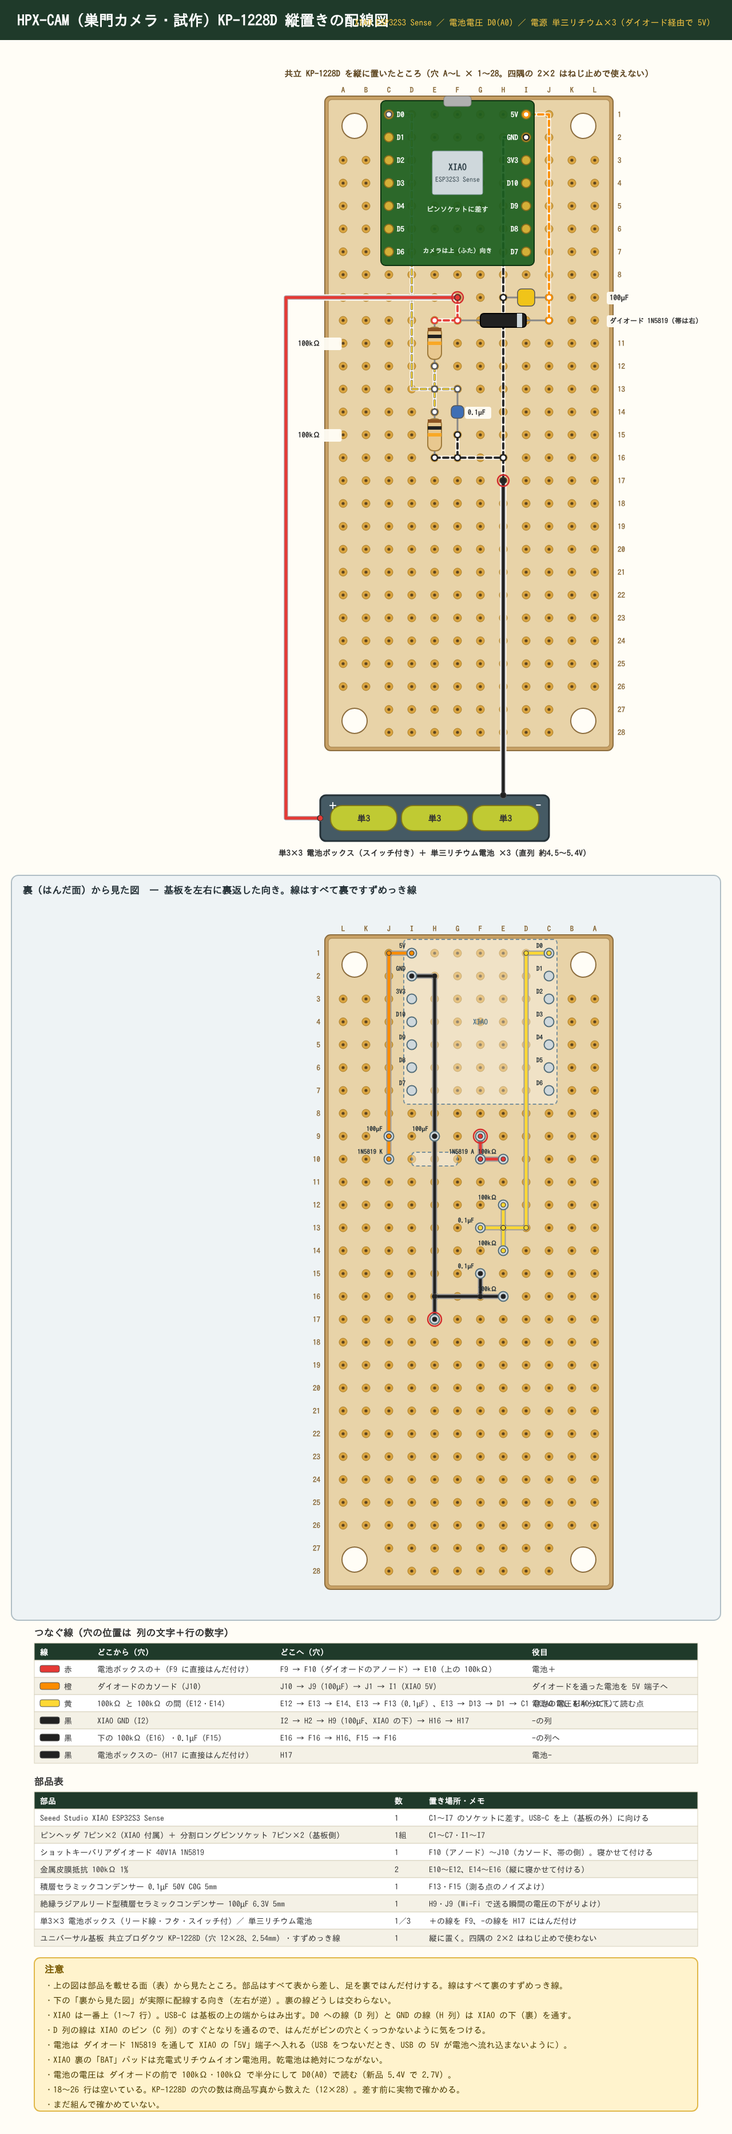
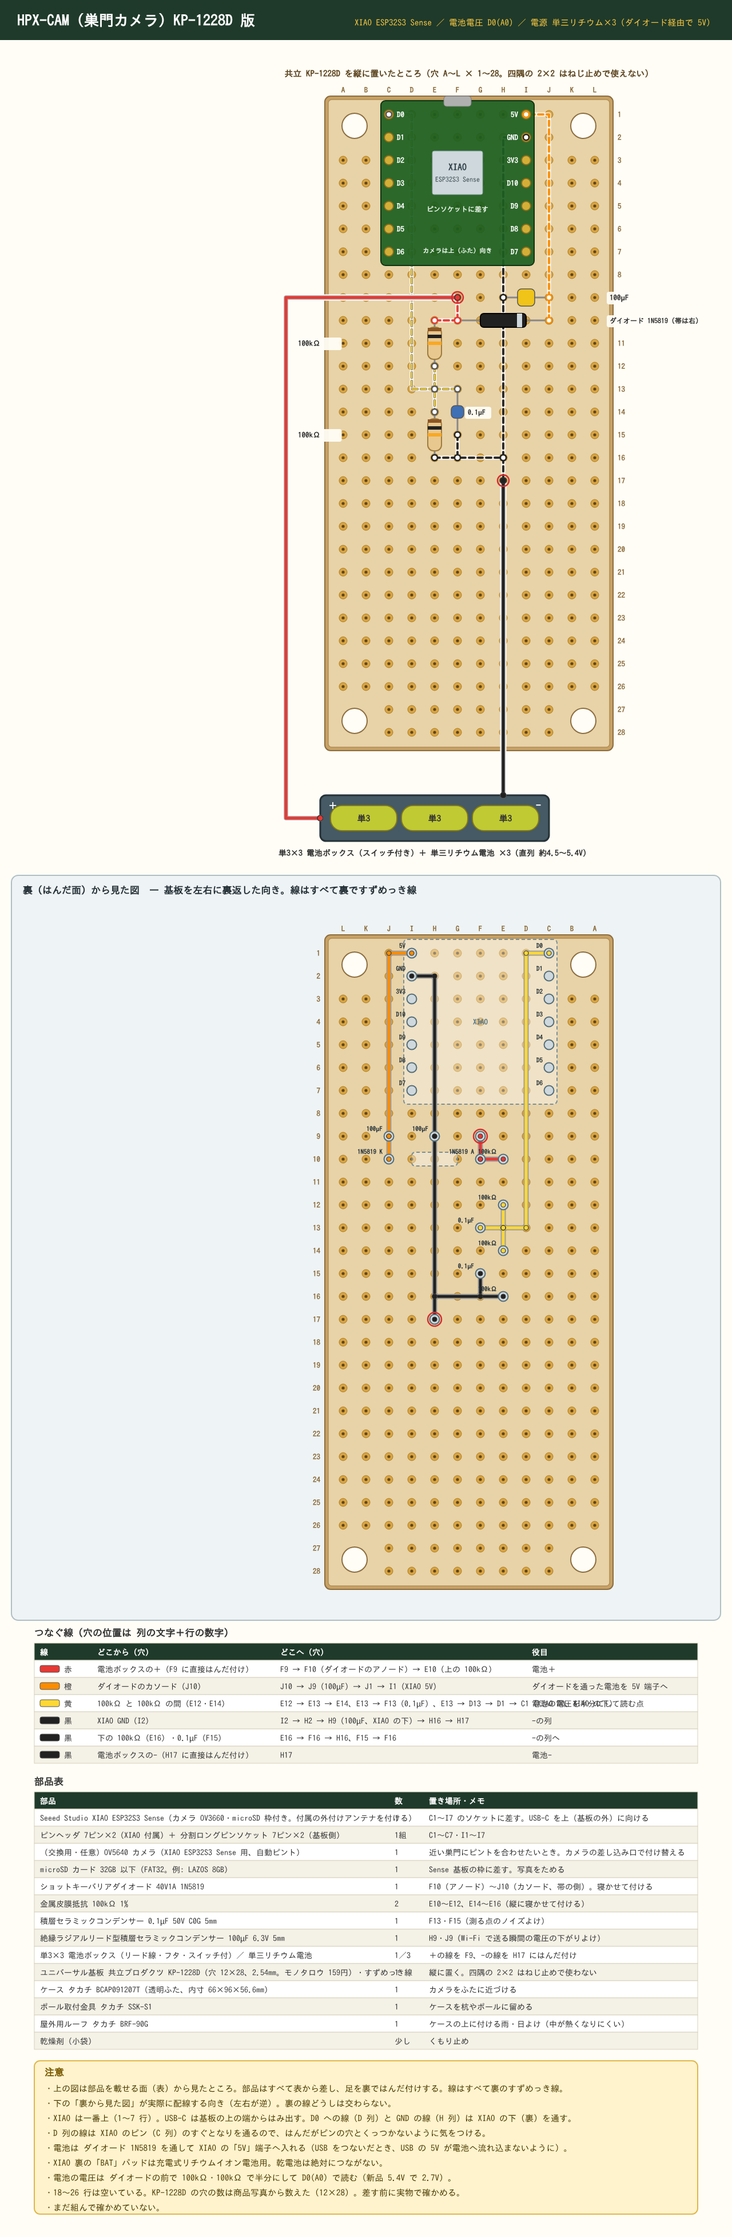
HPX-CAM: 基板を共立 KP-1228D (159円) にし、サイトの配線図を KP-1228D 縦置き版に差し替え (TARO 指定)
Claude-Session: https://claude.ai/code/session_01LCC9B3VoVWL7WDxMCJTnsZ

diff --git a/site/device-cam.html b/site/device-cam.html
@@ -222,7 +222,7 @@
         <tr><td class="part"><b><a href="https://www.monotaro.com/p/8822/1795/" target="_blank" rel="noopener">屋外用ルーフ BRFシリーズ</a></b><span>タカチ　BRF-90G</span><span class="price">539円</span></td><td class="shop">モノタロウ</td><td class="n" data-v="数">1</td></tr>
         <tr><td class="part"><b><a href="https://www.monotaro.com/p/8835/9293/" target="_blank" rel="noopener">ポール取付金具 SSKシリーズ</a></b><span>タカチ　SSK-S1</span><span class="price">558円</span></td><td class="shop">モノタロウ</td><td class="n" data-v="数">1</td></tr>
         <tr class="cat"><th colspan="3">電子部品</th></tr>
-        <tr><td class="part"><b><a href="https://akizukidenshi.com/catalog/g/g112977/" target="_blank" rel="noopener">ユニバーサル基板 5×7</a></b><span>両面スルーホールユニバーサル基板 5*7</span><span class="price">60円</span></td><td class="shop">秋月電子通商</td><td class="n" data-v="数">1</td></tr>
+        <tr><td class="part"><b><a href="https://www.monotaro.com/p/6298/8268/" target="_blank" rel="noopener">ユニバーサル基板 KP-1228D</a></b><span>共立プロダクツ ユニバーサル基板 ピッチ2.54mm KP-1228D (穴 12×28)</span><span class="price">159円</span></td><td class="shop">モノタロウ</td><td class="n" data-v="数">1</td></tr>
         <tr><td class="part"><b><a href="https://akizukidenshi.com/catalog/g/g117244/" target="_blank" rel="noopener">ショットキーバリアダイオード</a></b><span>ショットキーバリアダイオード 40V1A 1N5819</span><span class="price">100円 / 10本入り</span></td><td class="shop">秋月電子通商</td><td class="n" data-v="数">1</td></tr>
         <tr><td class="part"><b><a href="https://akizukidenshi.com/catalog/g/g108563/" target="_blank" rel="noopener">抵抗 100kΩ</a></b><span>小型 金属皮膜抵抗 1/4W100kΩ</span><span class="price">300円 / 100本入り</span></td><td class="shop">秋月電子通商</td><td class="n" data-v="数">2</td></tr>
         <tr><td class="part"><b><a href="https://akizukidenshi.com/catalog/g/g117059/" target="_blank" rel="noopener">コンデンサー0.1μF</a></b><span>積層セラミックコンデンサー 0.1μF50V C0G 5mm</span><span class="price">250円 / 10個入り</span></td><td class="shop">秋月電子通商</td><td class="n" data-v="数">1</td></tr>
@@ -236,7 +236,7 @@
         <tr><td class="part"><b><a href="https://www.amazon.co.jp/dp/B0FKQBGM4X" target="_blank" rel="noopener">microSDカード</a></b><span>LAZOS microSD メモリーカード 8GB</span><span class="price">780円</span></td><td class="shop">amazon</td><td class="n" data-v="数">1</td></tr>
         <tr><td class="part"><b>乾燥剤</b><span>乾燥剤 (小袋、くもり止め)</span></td><td class="shop">—</td><td class="n" data-v="数">適宜</td></tr>
         </tbody>
-        <tfoot><tr><td class="part">部品代の目安 (1台分)</td><td class="shop"></td><td class="n" data-v="数">約 7,213円</td></tr></tfoot>
+        <tfoot><tr><td class="part">部品代の目安 (1台分)</td><td class="shop"></td><td class="n" data-v="数">約 7,312円</td></tr></tfoot>
       </table>
       <div class="extra"><h3>その他</h3><p>※試作中です。ファームウェアは準備中です。写真を送るには、蜂場に Wi-Fi の親機 (ルーターやアクセスポイント) が必要です。近い巣門にピントを合わせたいときは、別売の OV5640 カメラ (自動ピント) に付け替えられます。</p></div>
     </div>
@@ -247,18 +247,18 @@
       <h2>作り方</h2>
       <p class="note">図を押すと、大きな画像が開きます。どの図もまだ実物で組んで確かめていません。取付穴の位置は目安なので、部品と基板の実物で確かめてから組み立ててください。</p>
       <figure class="wiring">
-        <figcaption><b>配線図</b>ユニバーサル基板 (穴 12×18) に XIAO ESP32S3 Sense・ダイオード・抵抗・コンデンサーを載せる図です (抵抗 2本と 0.1µF はチップの下) (表と裏、線はすべて裏)。単三リチウム3本の電気をダイオードを通して XIAO の 5V 端子へ入れ、電池の電圧を D0 で読みます。ケースは透明ふたの BCAP091207T で、カメラをふたのすぐ下に置きます。</figcaption>
-        <a href="img/wiring/HPX-CAM_pcb.png" target="_blank" rel="noopener"><img src="img/wiring/HPX-CAM_pcb.png" alt="HPX-CAM 配線図" loading="lazy"></a>
+        <figcaption><b>配線図</b>共立プロダクツのユニバーサル基板 KP-1228D (穴 12×28) を縦に置き、一番上に XIAO ESP32S3 Sense を差して、その下にダイオード・抵抗・コンデンサーを並べる図です (表と裏、線はすべて裏。四隅の 2×2 はねじ止めに使うので穴を使いません)。単三リチウム3本の電気をダイオードを通して XIAO の 5V 端子へ入れ、電池の電圧を D0 で読みます。ケースは透明ふたの BCAP091207T で、カメラをふたのすぐ下に置きます。</figcaption>
+        <a href="img/wiring/HPX-CAM_KP1228D_pcb.png" target="_blank" rel="noopener"><img src="img/wiring/HPX-CAM_KP1228D_pcb.png" alt="HPX-CAM 配線図" loading="lazy"></a>
       </figure>
       <div class="wtab"><h3>つなぐ線（穴の位置は 列の文字＋行の数字）</h3><div class="scroll"><table>
         <thead><tr><th>線</th><th>どこから（穴）</th><th>どこへ（穴）</th><th>役目</th></tr></thead>
-        <tbody><tr><td class="wc"><span class="sw" style="background:#e53935"></span>赤</td><td>電池ボックスの＋（B11 に直接はんだ付け）</td><td>B11 → B2 → D2（ダイオードのアノード）→ E2 → E3（上の 100kΩ）</td><td>電池＋</td></tr><tr><td class="wc"><span class="sw" style="background:#fb8c00"></span>橙</td><td>ダイオードのカソード（H2）</td><td>H2 → I2（100µF）→ I3（XIAO 5V）</td><td>ダイオードを通った電池を 5V 端子へ</td></tr><tr><td class="wc"><span class="sw" style="background:#fdd835"></span>黄</td><td>100kΩ と 100kΩ の間（E5・E7、チップの下）</td><td>E5 → E6 → E7 → F7（0.1µF）、E6 → D6 → D3 → C3（XIAO D0）</td><td>電池の電圧を半分にして読む点</td></tr><tr><td class="wc"><span class="sw" style="background:#212121"></span>黒</td><td>下の 100kΩ（E9、チップの下）</td><td>E9 → F9（0.1µF）、E9 → E10 → K10</td><td>−の列へ</td></tr><tr><td class="wc"><span class="sw" style="background:#212121"></span>黒</td><td>電池ボックスの−（K11 に直接はんだ付け）</td><td>K11 → K10 → K4 → K2（100µF）、I4（XIAO GND）→ K4</td><td>−の列</td></tr></tbody>
+        <tbody><tr><td class="wc"><span class="sw" style="background:#e53935"></span>赤</td><td>電池ボックスの＋（F9 に直接はんだ付け）</td><td>F9 → F10（ダイオードのアノード）→ E10（上の 100kΩ）</td><td>電池＋</td></tr><tr><td class="wc"><span class="sw" style="background:#fb8c00"></span>橙</td><td>ダイオードのカソード（J10）</td><td>J10 → J9（100µF）→ J1 → I1（XIAO 5V）</td><td>ダイオードを通った電池を 5V 端子へ</td></tr><tr><td class="wc"><span class="sw" style="background:#fdd835"></span>黄</td><td>100kΩ と 100kΩ の間（E12・E14）</td><td>E12 → E13 → E14、E13 → F13（0.1µF）、E13 → D13 → D1 → C1（XIAO D0、XIAO の下）</td><td>電池の電圧を半分にして読む点</td></tr><tr><td class="wc"><span class="sw" style="background:#212121"></span>黒</td><td>XIAO GND（I2）</td><td>I2 → H2 → H9（100µF、XIAO の下）→ H16 → H17</td><td>−の列</td></tr><tr><td class="wc"><span class="sw" style="background:#212121"></span>黒</td><td>下の 100kΩ（E16）・0.1µF（F15）</td><td>E16 → F16 → H16、F15 → F16</td><td>−の列へ</td></tr><tr><td class="wc"><span class="sw" style="background:#212121"></span>黒</td><td>電池ボックスの−（H17 に直接はんだ付け）</td><td>H17</td><td>電池−</td></tr></tbody>
       </table></div></div>
       <div class="wtab"><h3>部品の置き場所</h3><div class="scroll"><table>
         <thead><tr><th>部品</th><th>数</th><th>置き場所・メモ</th></tr></thead>
-        <tbody><tr><td>Seeed Studio XIAO ESP32S3 Sense（カメラ OV3660・microSD 枠付き。付属の外付けアンテナを付ける。秋月電子 2,660円）</td><td>1</td><td>C3〜I9 のソケットに差す。USB-C を上に向ける</td></tr><tr><td>ピンヘッダ 7ピン×2（XIAO 付属）＋ 分割ロングピンソケット 7ピン×2（基板側）</td><td>1組</td><td>C3〜C9・I3〜I9</td></tr><tr><td>（交換用・任意）OV5640 カメラ（XIAO ESP32S3 Sense 用、自動ピント）</td><td>1</td><td>近い巣門にピントを合わせたいとき。カメラの差し込み口で付け替える</td></tr><tr><td>microSD カード 32GB 以下（FAT32。例: LAZOS 8GB）</td><td>1</td><td>Sense 基板の枠に差す。写真をためる</td></tr><tr><td>ショットキーバリアダイオード 40V1A 1N5819（秋月電子 100円/10本）</td><td>1</td><td>D2（アノード）〜H2（カソード、帯の側）。寝かせて付ける</td></tr><tr><td>金属皮膜抵抗 100kΩ 1%</td><td>2</td><td>E3〜E5、E7〜E9（チップの下。縦に寝かせて付ける）</td></tr><tr><td>積層セラミックコンデンサー 0.1µF 50V C0G 5mm</td><td>1</td><td>F7・F9（チップの下。測る点のノイズよけ）</td></tr><tr><td>絶縁ラジアルリード型積層セラミックコンデンサー 100µF 6.3V 5mm</td><td>1</td><td>I2・K2（Wi-Fi で送る瞬間の電圧の下がりよけ）</td></tr><tr><td>単3×3 電池ボックス（リード線・フタ・スイッチ付、秋月電子 160円）／ 単三リチウム電池</td><td>1／3</td><td>＋の線を B11、−の線を K11 にはんだ付け</td></tr><tr><td>ユニバーサル基板（穴 12×18 以上）・すずめっき線</td><td>1</td><td>大きい基板を切って使ってもよい</td></tr><tr><td>ケース タカチ BCAP091207T（透明ふた、内寸 66×96×56.6mm。モノタロウ 1,398円）</td><td>1</td><td>カメラをふたに近づける</td></tr><tr><td>ポール取付金具 タカチ SSK-S1（モノタロウ 558円）</td><td>1</td><td>ケースを杭やポールに留める</td></tr><tr><td>屋外用ルーフ タカチ BRF-90G（モノタロウ 539円）</td><td>1</td><td>ケースの上に付ける雨・日よけ（中が熱くなりにくい）</td></tr><tr><td>乾燥剤（小袋）</td><td>少し</td><td>くもり止め</td></tr></tbody>
+        <tbody><tr><td>Seeed Studio XIAO ESP32S3 Sense（カメラ OV3660・microSD 枠付き。付属の外付けアンテナを付ける）</td><td>1</td><td>C1〜I7 のソケットに差す。USB-C を上（基板の外）に向ける</td></tr><tr><td>ピンヘッダ 7ピン×2（XIAO 付属）＋ 分割ロングピンソケット 7ピン×2（基板側）</td><td>1組</td><td>C1〜C7・I1〜I7</td></tr><tr><td>（交換用・任意）OV5640 カメラ（XIAO ESP32S3 Sense 用、自動ピント）</td><td>1</td><td>近い巣門にピントを合わせたいとき。カメラの差し込み口で付け替える</td></tr><tr><td>microSD カード 32GB 以下（FAT32。例: LAZOS 8GB）</td><td>1</td><td>Sense 基板の枠に差す。写真をためる</td></tr><tr><td>ショットキーバリアダイオード 40V1A 1N5819</td><td>1</td><td>F10（アノード）〜J10（カソード、帯の側）。寝かせて付ける</td></tr><tr><td>金属皮膜抵抗 100kΩ 1%</td><td>2</td><td>E10〜E12、E14〜E16（縦に寝かせて付ける）</td></tr><tr><td>積層セラミックコンデンサー 0.1µF 50V C0G 5mm</td><td>1</td><td>F13・F15（測る点のノイズよけ）</td></tr><tr><td>絶縁ラジアルリード型積層セラミックコンデンサー 100µF 6.3V 5mm</td><td>1</td><td>H9・J9（Wi-Fi で送る瞬間の電圧の下がりよけ）</td></tr><tr><td>単3×3 電池ボックス（リード線・フタ・スイッチ付）／ 単三リチウム電池</td><td>1／3</td><td>＋の線を F9、−の線を H17 にはんだ付け</td></tr><tr><td>ユニバーサル基板 共立プロダクツ KP-1228D（穴 12×28、2.54mm。モノタロウ 159円）・すずめっき線</td><td>1</td><td>縦に置く。四隅の 2×2 はねじ止めで使わない</td></tr><tr><td>ケース タカチ BCAP091207T（透明ふた、内寸 66×96×56.6mm）</td><td>1</td><td>カメラをふたに近づける</td></tr><tr><td>ポール取付金具 タカチ SSK-S1</td><td>1</td><td>ケースを杭やポールに留める</td></tr><tr><td>屋外用ルーフ タカチ BRF-90G</td><td>1</td><td>ケースの上に付ける雨・日よけ（中が熱くなりにくい）</td></tr><tr><td>乾燥剤（小袋）</td><td>少し</td><td>くもり止め</td></tr></tbody>
       </table></div></div>
-      <div class="wnote"><h3>注意</h3><ul><li>上の図は部品を載せる面（表）から見たところ。部品はすべて表から差し、足を裏ではんだ付けする。線はすべて裏のすずめっき線。</li><li>下の「裏から見た図」が実際に配線する向き（左右が逆）。裏の線どうしは交わらない。</li><li>電池は ダイオード 1N5819 を通して XIAO の「5V」端子へ入れる（USB をつないだとき、USB の 5V が電池へ流れ込まないように）。</li><li>XIAO 裏の「BAT」パッドは充電式リチウムイオン電池用。乾電池は絶対につながない。</li><li>100kΩ 2本と 0.1µF はチップ（XIAO）の下に置く。基板にぴったり寝かせ、0.1µF の足は短く切る。XIAO の裏の金属（パッド）に当たらないようにする。</li><li>電池の電圧は ダイオードの前で 100kΩ・100kΩ で半分にして D0(A0) で読む（新品 5.4V で 2.7V）。この抵抗には いつも約27µA 流れる（1日 約0.65mAh）。</li><li>D8・D9・D10 は Sense 基板の microSD が使うので、ほかの部品につながない。</li><li>USB で書き込むときは、電池ボックスのスイッチを切る（ダイオードがあるので切り忘れても壊れにくいが、念のため）。</li><li>付属の Wi-Fi アンテナ（シール状）は XIAO の U.FL に差し、ケースの壁（金属のそば以外）に貼る。</li><li>ケースの中で、カメラ（Sense 基板）をふたのすぐ下に来るようにする（ふたの反射よけ）。</li><li>電池のもち（10分おきに撮影・未実測）: 24時間で 約3週間〜1か月半、昼12時間だけで 約1〜3か月。眠り中の電流しだい。</li><li>まだ組んで確かめていない。XIAO ESP32S3 Sense の眠り中の電流、1N5819 を入れたときの Wi-Fi 送信中の電圧は実物で測る。</li></ul></div>
+      <div class="wnote"><h3>注意</h3><ul><li>上の図は部品を載せる面（表）から見たところ。部品はすべて表から差し、足を裏ではんだ付けする。線はすべて裏のすずめっき線。</li><li>下の「裏から見た図」が実際に配線する向き（左右が逆）。裏の線どうしは交わらない。</li><li>XIAO は一番上（1〜7 行）。USB-C は基板の上の端からはみ出す。D0 への線（D 列）と GND の線（H 列）は XIAO の下（裏）を通す。</li><li>D 列の線は XIAO のピン（C 列）のすぐとなりを通るので、はんだがピンの穴とくっつかないように気をつける。</li><li>電池は ダイオード 1N5819 を通して XIAO の「5V」端子へ入れる（USB をつないだとき、USB の 5V が電池へ流れ込まないように）。</li><li>XIAO 裏の「BAT」パッドは充電式リチウムイオン電池用。乾電池は絶対につながない。</li><li>電池の電圧は ダイオードの前で 100kΩ・100kΩ で半分にして D0(A0) で読む（新品 5.4V で 2.7V）。</li><li>18〜26 行は空いている。KP-1228D の穴の数は商品写真から数えた（12×28）。差す前に実物で確かめる。</li><li>まだ組んで確かめていない。</li></ul></div>
       <div class="soonbox">組み立ての手順は、準備ができしだい掲載します。</div>
       <a class="back" href="devices.html">機器の一覧へ戻る</a>
     </div>

diff --git a/hardware/wiring/gen_pcb.py b/hardware/wiring/gen_pcb.py
@@ -1524,7 +1524,7 @@ def w(color, *holes):
     wireh(s, [hole(h) for h in holes], color)
 OX, OY = 600, 200
 s = S(1280, 3200)
-title(s, "HPX-CAM（巣門カメラ・試作）KP-1228D 縦置きの配線図", "XIAO ESP32S3 Sense ／ 電池電圧 D0(A0) ／ 電源 単三リチウム×3（ダイオード経由で 5V）")
+title(s, "HPX-CAM（巣門カメラ）KP-1228D 版", "XIAO ESP32S3 Sense ／ 電池電圧 D0(A0) ／ 電源 単三リチウム×3（ダイオード経由で 5V）")
 board(s, 12, 28, "共立 KP-1228D を縦に置いたところ（穴 A〜L × 1〜28。四隅の 2×2 はねじ止めで使えない）")
 _i0 = len(s.items)
 for r in (0, 1, 26, 27):
@@ -1596,14 +1596,20 @@ y = table(s, 60, yb + 40, [
 ], [100, 320, 440, 300], "つなぐ線（穴の位置は 列の文字＋行の数字）")
 y = table(s, 60, y + 50, [
     ["部品", "数", "置き場所・メモ"],
-    ["Seeed Studio XIAO ESP32S3 Sense", "1", "C1〜I7 のソケットに差す。USB-C を上（基板の外）に向ける"],
+    ["Seeed Studio XIAO ESP32S3 Sense（カメラ OV3660・microSD 枠付き。付属の外付けアンテナを付ける）", "1", "C1〜I7 のソケットに差す。USB-C を上（基板の外）に向ける"],
     ["ピンヘッダ 7ピン×2（XIAO 付属）＋ 分割ロングピンソケット 7ピン×2（基板側）", "1組", "C1〜C7・I1〜I7"],
+    ["（交換用・任意）OV5640 カメラ（XIAO ESP32S3 Sense 用、自動ピント）", "1", "近い巣門にピントを合わせたいとき。カメラの差し込み口で付け替える"],
+    ["microSD カード 32GB 以下（FAT32。例: LAZOS 8GB）", "1", "Sense 基板の枠に差す。写真をためる"],
     ["ショットキーバリアダイオード 40V1A 1N5819", "1", "F10（アノード）〜J10（カソード、帯の側）。寝かせて付ける"],
     ["金属皮膜抵抗 100kΩ 1%", "2", "E10〜E12、E14〜E16（縦に寝かせて付ける）"],
     ["積層セラミックコンデンサー 0.1µF 50V C0G 5mm", "1", "F13・F15（測る点のノイズよけ）"],
     ["絶縁ラジアルリード型積層セラミックコンデンサー 100µF 6.3V 5mm", "1", "H9・J9（Wi-Fi で送る瞬間の電圧の下がりよけ）"],
     ["単3×3 電池ボックス（リード線・フタ・スイッチ付）／ 単三リチウム電池", "1／3", "＋の線を F9、−の線を H17 にはんだ付け"],
-    ["ユニバーサル基板 共立プロダクツ KP-1228D（穴 12×28、2.54mm）・すずめっき線", "1", "縦に置く。四隅の 2×2 はねじ止めで使わない"],
+    ["ユニバーサル基板 共立プロダクツ KP-1228D（穴 12×28、2.54mm。モノタロウ 159円）・すずめっき線", "1", "縦に置く。四隅の 2×2 はねじ止めで使わない"],
+    ["ケース タカチ BCAP091207T（透明ふた、内寸 66×96×56.6mm）", "1", "カメラをふたに近づける"],
+    ["ポール取付金具 タカチ SSK-S1", "1", "ケースを杭やポールに留める"],
+    ["屋外用ルーフ タカチ BRF-90G", "1", "ケースの上に付ける雨・日よけ（中が熱くなりにくい）"],
+    ["乾燥剤（小袋）", "少し", "くもり止め"],
 ], [620, 60, 480], "部品表")
 finish(s, y, [
     "・上の図は部品を載せる面（表）から見たところ。部品はすべて表から差し、足を裏ではんだ付けする。線はすべて裏のすずめっき線。",

diff --git a/hardware/parts/gen_device_pages.py b/hardware/parts/gen_device_pages.py
@@ -122,10 +122,11 @@ DEVICES = [
          no_alts=True,
          order=['XIAO ESP32S3 Sense',
                 '防水・防塵開閉式プラボックス BCAPシリーズ', '屋外用ルーフ BRFシリーズ', 'ポール取付金具 SSKシリーズ',
-                'ユニバーサル基板 5×7', 'ショットキーバリアダイオード', '抵抗 100kΩ', 'コンデンサー0.1μF',
+                'ユニバーサル基板 KP-1228D', 'ショットキーバリアダイオード', '抵抗 100kΩ', 'コンデンサー0.1μF',
                 'コンデンサー100μF', 'ピンソケット（メス）', 'ジャンパー線',
                 '電池ボックス 単3×3本', '単三リチウム電池', 'microSDカード', '乾燥剤'],
-         wiring=[('HPX-CAM_pcb.png', '配線図', 'ユニバーサル基板 (穴 12×18) に XIAO ESP32S3 Sense・ダイオード・抵抗・コンデンサーを載せる図です (抵抗 2本と 0.1µF はチップの下) (表と裏、線はすべて裏)。単三リチウム3本の電気をダイオードを通して XIAO の 5V 端子へ入れ、電池の電圧を D0 で読みます。ケースは透明ふたの BCAP091207T で、カメラをふたのすぐ下に置きます。')],
+         # TARO 2026-11-22: 基板を共立 KP-1228D (縦置き、XIAO を一番上) に変え、図も差し替え
+         wiring=[('HPX-CAM_KP1228D_pcb.png', '配線図', '共立プロダクツのユニバーサル基板 KP-1228D (穴 12×28) を縦に置き、一番上に XIAO ESP32S3 Sense を差して、その下にダイオード・抵抗・コンデンサーを並べる図です (表と裏、線はすべて裏。四隅の 2×2 はねじ止めに使うので穴を使いません)。単三リチウム3本の電気をダイオードを通して XIAO の 5V 端子へ入れ、電池の電圧を D0 で読みます。ケースは透明ふたの BCAP091207T で、カメラをふたのすぐ下に置きます。')],
          extra=('※試作中です。ファームウェアは準備中です。写真を送るには、蜂場に Wi-Fi の親機 (ルーターやアクセスポイント) が必要です。近い巣門にピントを合わせたいときは、別売の OV5640 カメラ (自動ピント) に付け替えられます。',
                 [])),
     # HPX-Solar (TARO 2026-11-10): ＋LTE-M＆ソーラー版の電源の部分を別の機器にした (小型ソーラーパネル＋DFR0559＋18650×2)
